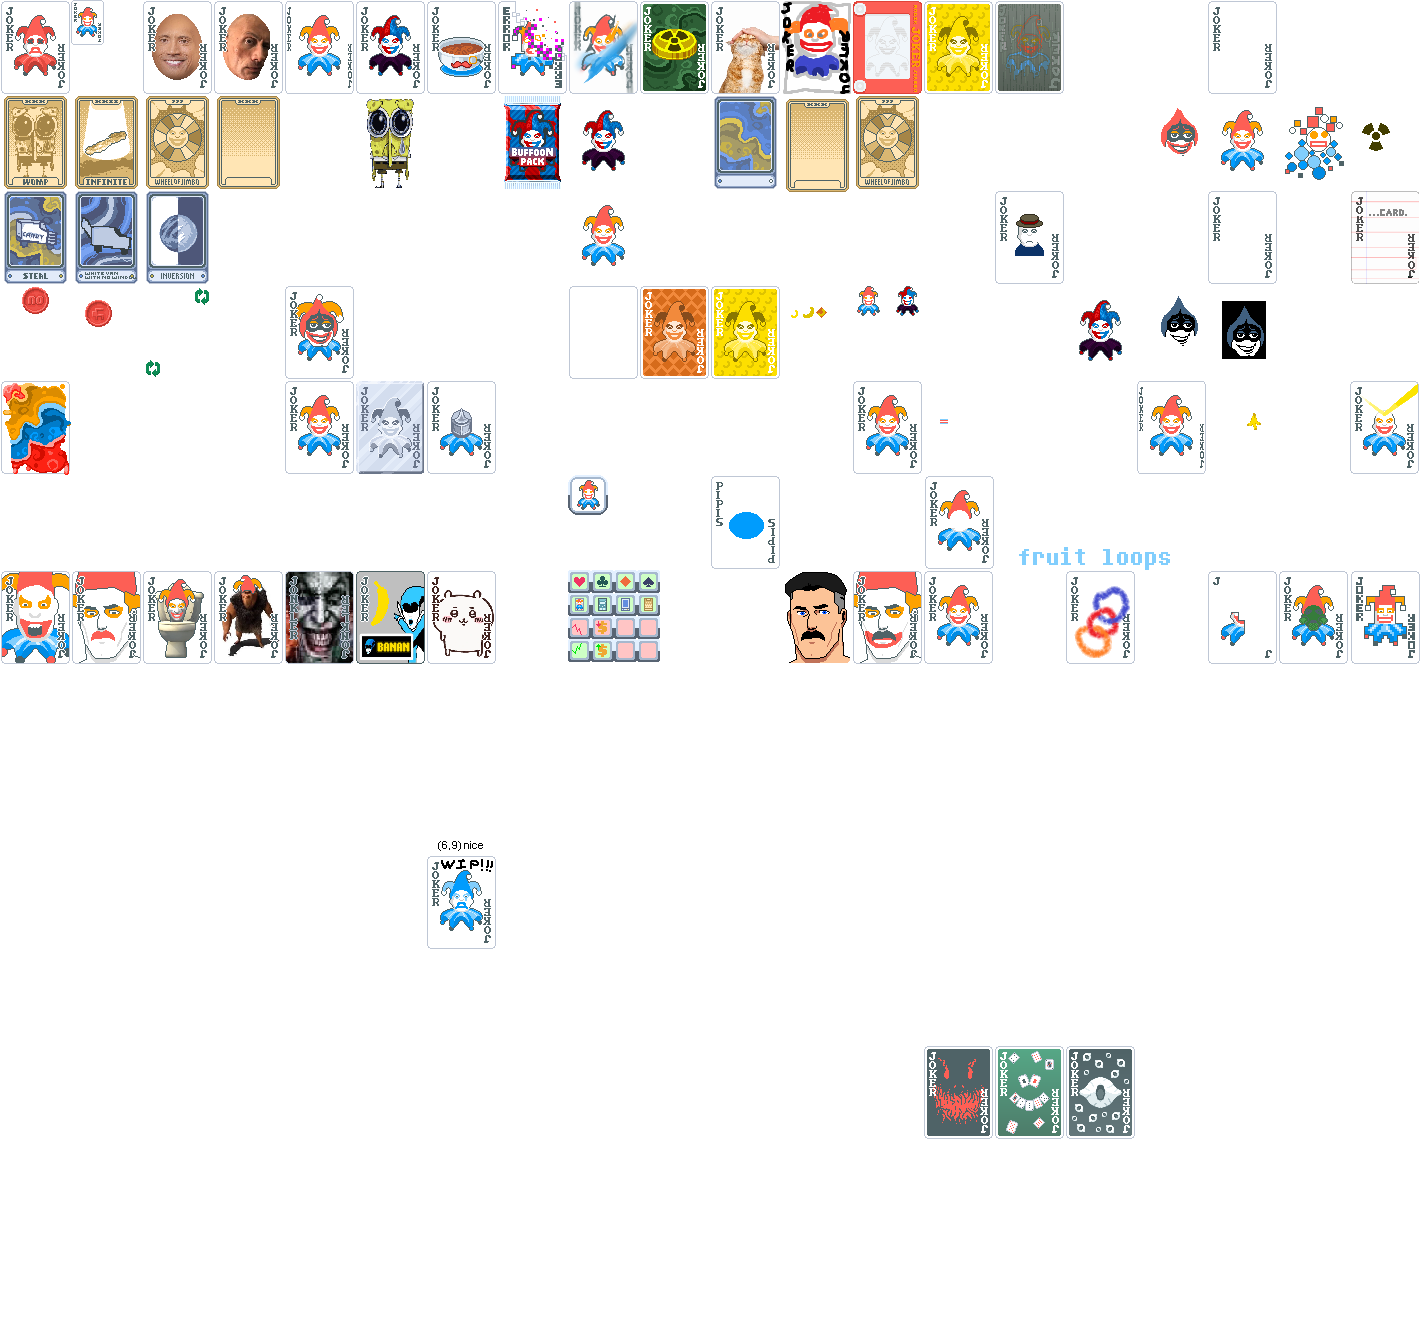
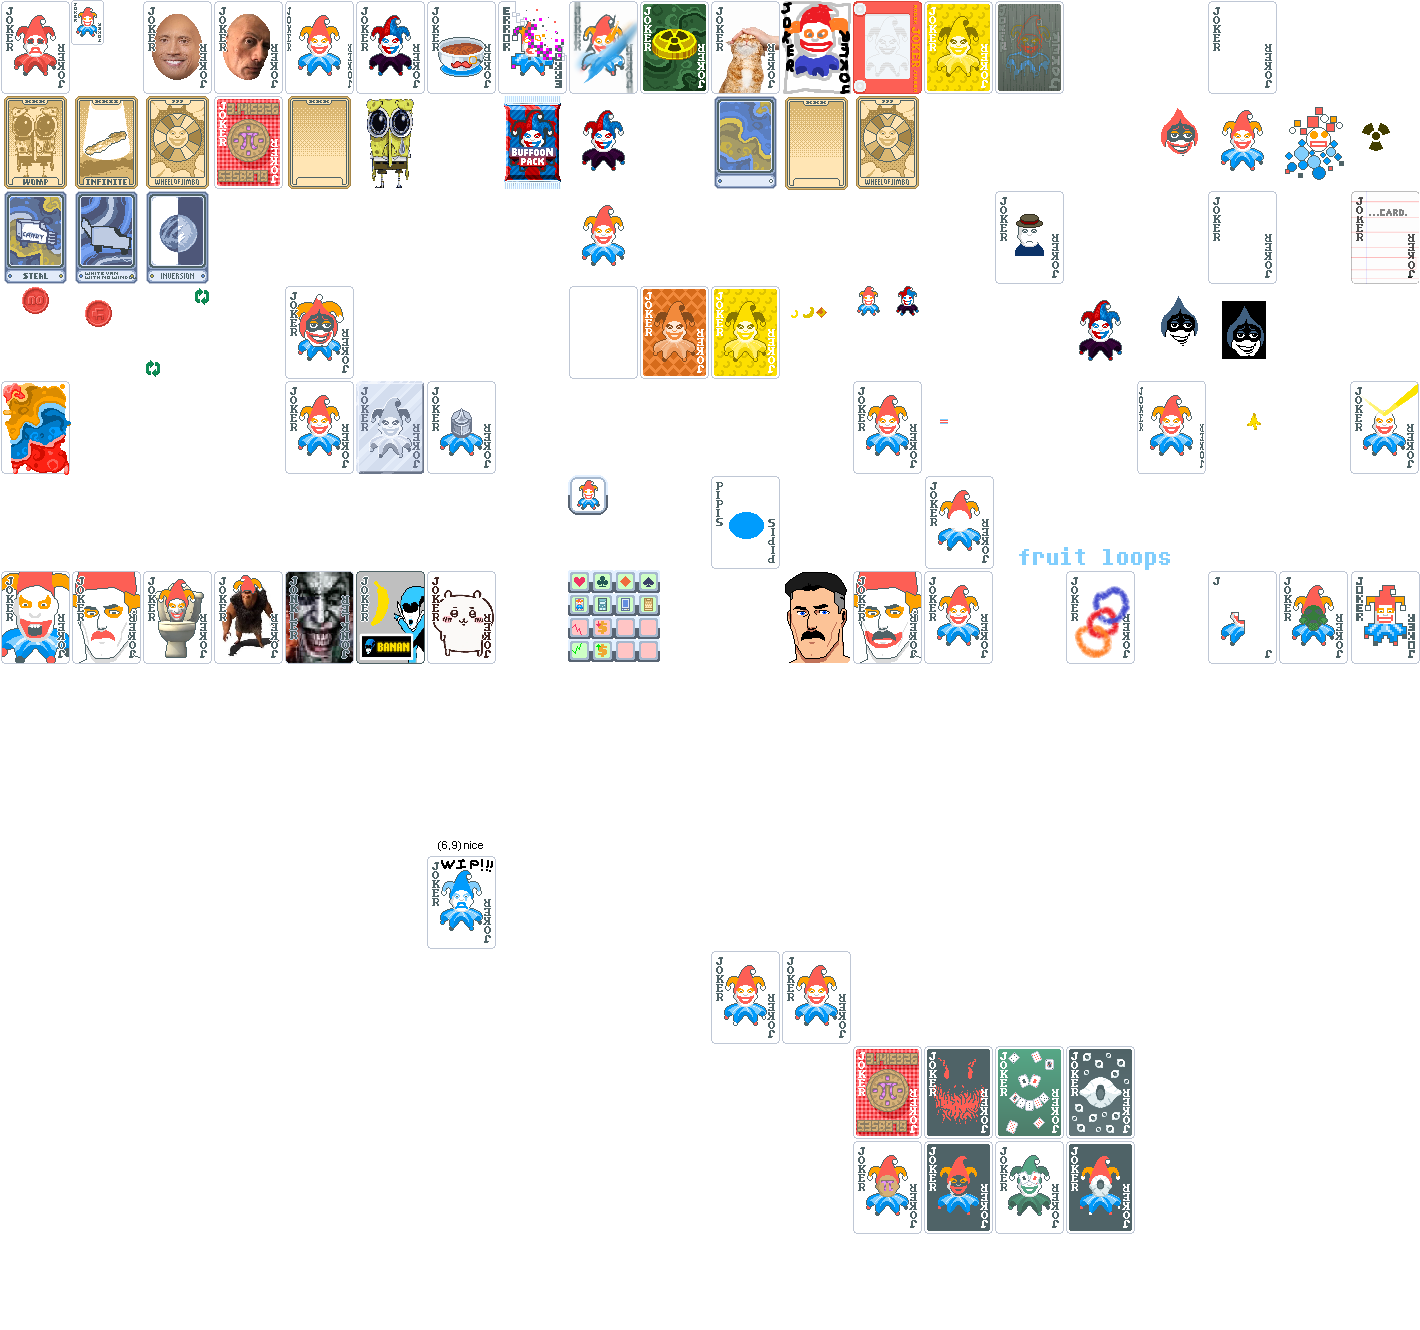
Added "Pi(e)" Joker. Added "Inversion" Spectral.
Removed Dwayne the Egg.

Useless seal is now an Edition.
Goop'ed seal is now an enhancement
1/5th Joker now gives 1.5X instead of 2X

diff --git a/TODO.md b/TODO.md
@@ -7,9 +7,6 @@
 
 ## Changes
 
-- Make painted Joker only "juice" non gooped cards
-- Make goop seal actually give +4 mult
-- Make Astral Joker also retrigger Tarots
 - Turn Useless seal into an Enhancement
 - make crashing with error joker be a 1 in 30 chance
 - **FIX SMOOTH PIXEL ART ATLASES**
@@ -18,6 +15,5 @@
 
 - None
 - 0 Bugs Here
-
 
 ### *ping me (@AstralWuzHere) if you find anything.*
